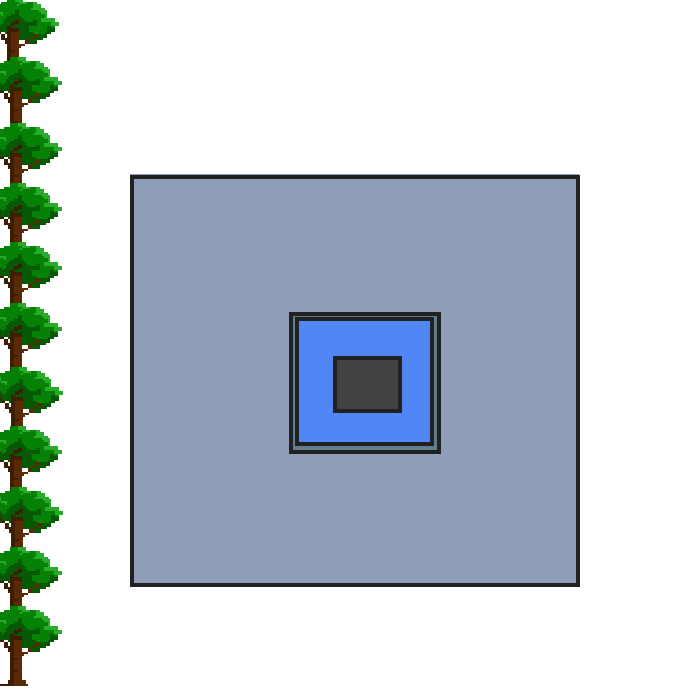
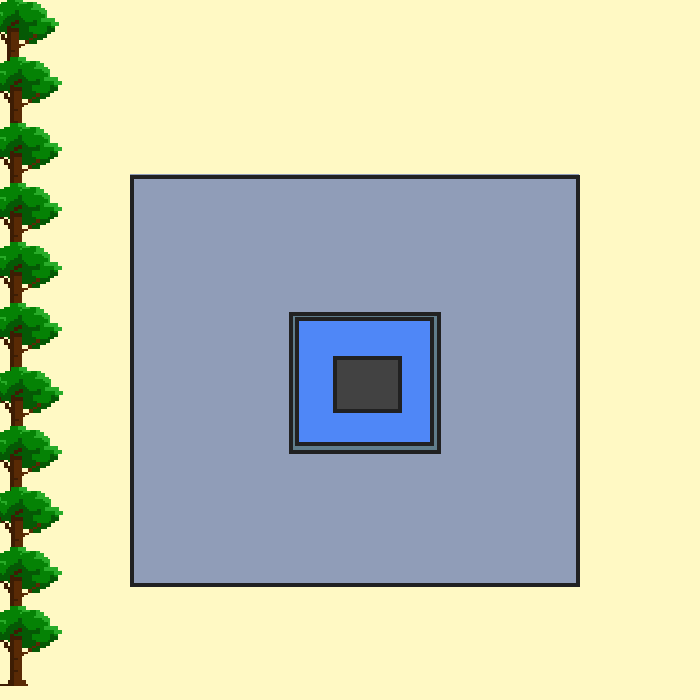
map aesthetic things

diff --git a/src/GamePanel.java b/src/GamePanel.java
@@ -20,7 +20,7 @@ public class GamePanel extends JPanel implements KeyListener {
 	String ownBoatS;
 	public static BufferedImage rCat;
 	public static BufferedImage raft;
-	public static BufferedImage[][] bkgdArray = new BufferedImage[4][2];
+	public static BufferedImage[][] bkgdArray = new BufferedImage[4][3];
 	RareCatto c;
 	Boat Raft;
 	JTextArea inv = new JTextArea();
@@ -34,8 +34,9 @@ public class GamePanel extends JPanel implements KeyListener {
 		bkgdArray[1][0] = ImageIO.read(this.getClass().getResourceAsStream("frame3.png"));
 		bkgdArray[2][0] = ImageIO.read(this.getClass().getResourceAsStream("pixil-frame-1.png"));
 		bkgdArray[3][0] = ImageIO.read(this.getClass().getResourceAsStream("pixil-frame-0.png"));
-		bkgdArray[0][1] = ImageIO.read(this.getClass().getResourceAsStream("topcenter.png"));
-		bkgdArray[1][1] = ImageIO.read(this.getClass().getResourceAsStream("watertemple.png"));
+		bkgdArray[0][1] = ImageIO.read(this.getClass().getResourceAsStream("for1.png"));
+		bkgdArray[1][1] = ImageIO.read(this.getClass().getResourceAsStream("newmaze copy.png"));
+		bkgdArray[2][1] = ImageIO.read(this.getClass().getResourceAsStream("rmid.png"));
 		rCat = ImageIO.read(this.getClass().getResourceAsStream("jkrealboi.png"));
 		raft = ImageIO.read(this.getClass().getResourceAsStream("boat.png"));
 		c = new RareCatto();
